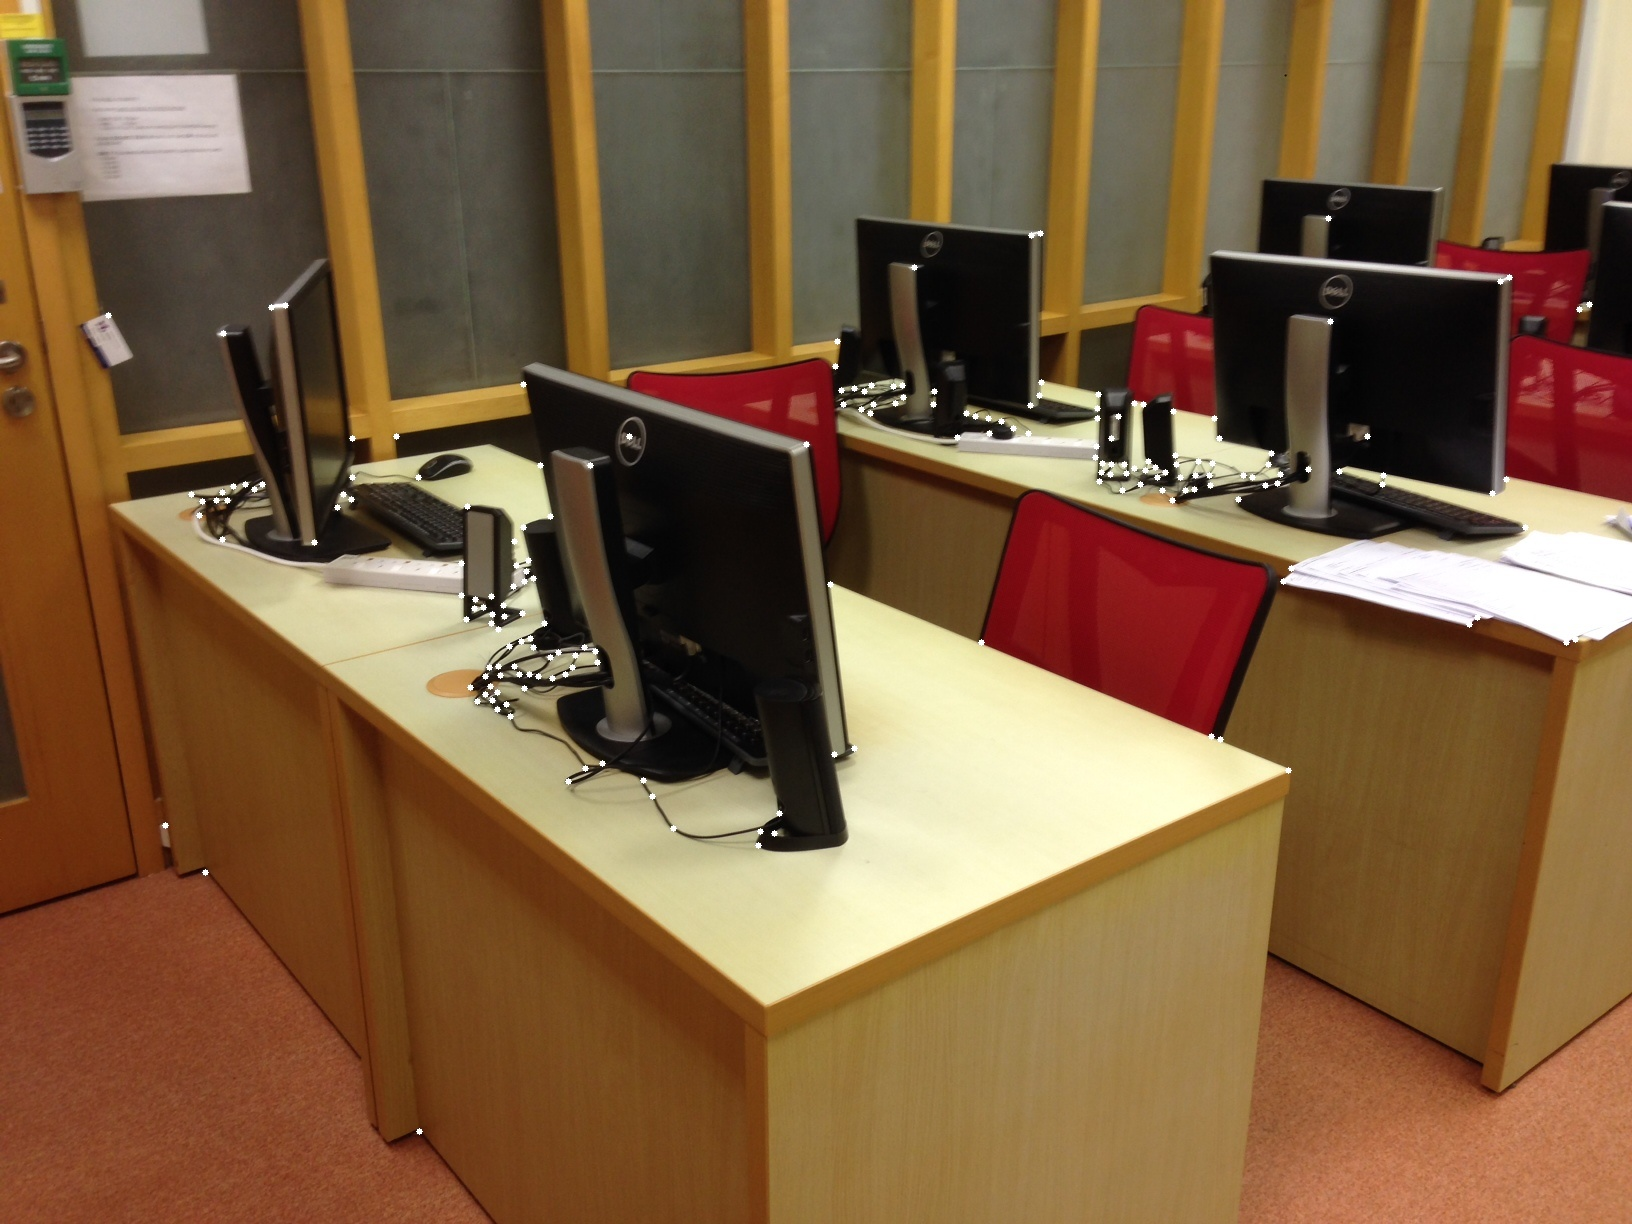
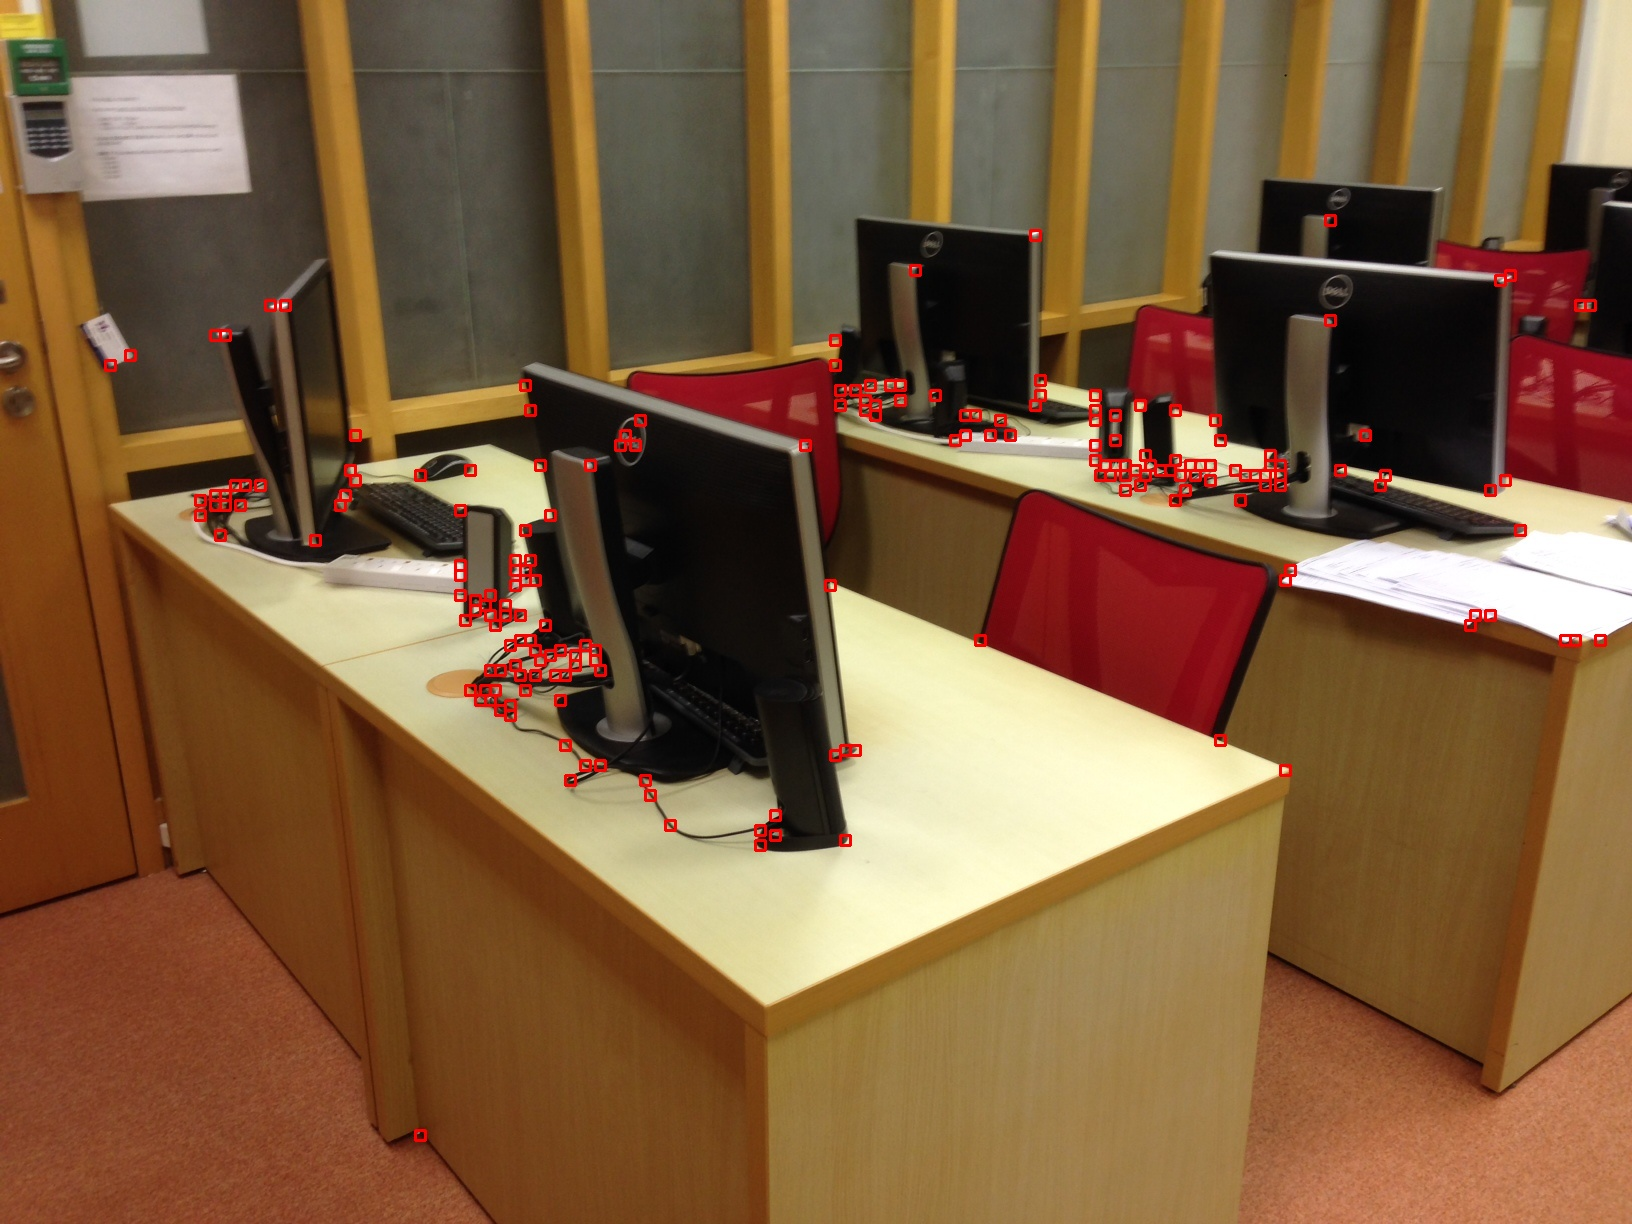
[A2] Added thresholding. Thanks Jenna! :D

diff --git a/assgs/assg2/assg2.py b/assgs/assg2/assg2.py
@@ -20,12 +20,15 @@ TRACKING_CORNER_COUNT = 200
 # Minimum possible Euclidean distance between the returned corners
 TRACKING_MIN_DISTANCE = 9.0
 
+# Threshold
+THRESHOLD = 0.001
+
 WINDOW_SIZE = 5
 
-CIRCLE_COLOR = (0, 0, 255, 0)
-CIRCLE_THICKNESS = 1
-CIRCLE_LINE_TYPE = 8
-CIRCLE_SHIFT = 0
+SQUARE_COLOR = (0, 0, 255, 0)
+SQUARE_THICKNESS = 2
+SQUARE_LINE_TYPE = 8
+SQUARE_SHIFT = 0
 
 colored_image = cv2.imread(IMAGE_FILE_NAME, cv2.CV_LOAD_IMAGE_COLOR)
 image = cv2.imread(IMAGE_FILE_NAME, cv2.CV_LOAD_IMAGE_GRAYSCALE)
@@ -54,9 +57,10 @@ print 'Done calculating dI/dy values!'
 image_eigenvalues = np.zeros(image.shape)
 print 'Calculating minimum eigenvalues...'
 count = 1
-total_pixels = (img_height - 2*WINDOW_SIZE) * (img_width - 2*WINDOW_SIZE)
-for y in range(WINDOW_SIZE, img_height - WINDOW_SIZE):
-  for x in range(WINDOW_SIZE, img_width - WINDOW_SIZE):
+total_pixels = len(range(WINDOW_SIZE, img_height - WINDOW_SIZE, WINDOW_SIZE)) * \
+                len(range(WINDOW_SIZE, img_width - WINDOW_SIZE, WINDOW_SIZE))
+for y in range(WINDOW_SIZE, img_height - WINDOW_SIZE, WINDOW_SIZE):
+  for x in range(WINDOW_SIZE, img_width - WINDOW_SIZE, WINDOW_SIZE):
     print 'Calculating minimum eigenvalues:', round(float(count) / total_pixels * 100, 4), '% complete'
     mat = np.zeros((2, 2))
     for v in range(y - WINDOW_SIZE, y + WINDOW_SIZE):
@@ -75,9 +79,10 @@ print 'Done calculating minimum eigenvalues!'
 eigenvalues_data = []
 
 # Get a list of eigenvalues and its pixel coordinates
-for y in range(WINDOW_SIZE, img_height - WINDOW_SIZE):
-  for x in range(WINDOW_SIZE, img_width - WINDOW_SIZE):
-    eigenvalues_data.append([image_eigenvalues[y][x], (int(x), int(y))])
+for y in range(WINDOW_SIZE, img_height - WINDOW_SIZE, WINDOW_SIZE):
+  for x in range(WINDOW_SIZE, img_width - WINDOW_SIZE, WINDOW_SIZE):
+    if image_eigenvalues[y][x] > THRESHOLD:
+      eigenvalues_data.append([image_eigenvalues[y][x], (int(x), int(y))])
 
 corners_list = sorted(eigenvalues_data, key=lambda e: e[0], reverse=True)
 
@@ -98,8 +103,8 @@ for i in range(TRACKING_CORNER_COUNT):
 
 for (eig, pt) in top_corners_list:
   cv2.rectangle(colored_image, (pt[0]-WINDOW_SIZE, pt[1]-WINDOW_SIZE), \
-                (pt[0]+WINDOW_SIZE, pt[1]+WINDOW_SIZE), CIRCLE_COLOR, \
-                CIRCLE_THICKNESS, CIRCLE_LINE_TYPE, CIRCLE_SHIFT)
+                (pt[0]+WINDOW_SIZE, pt[1]+WINDOW_SIZE), SQUARE_COLOR, \
+                SQUARE_THICKNESS, SQUARE_LINE_TYPE, SQUARE_SHIFT)
 
 # Save new image with good features indicated
 file_name, file_extension = IMAGE_FILE_NAME.split('.')
